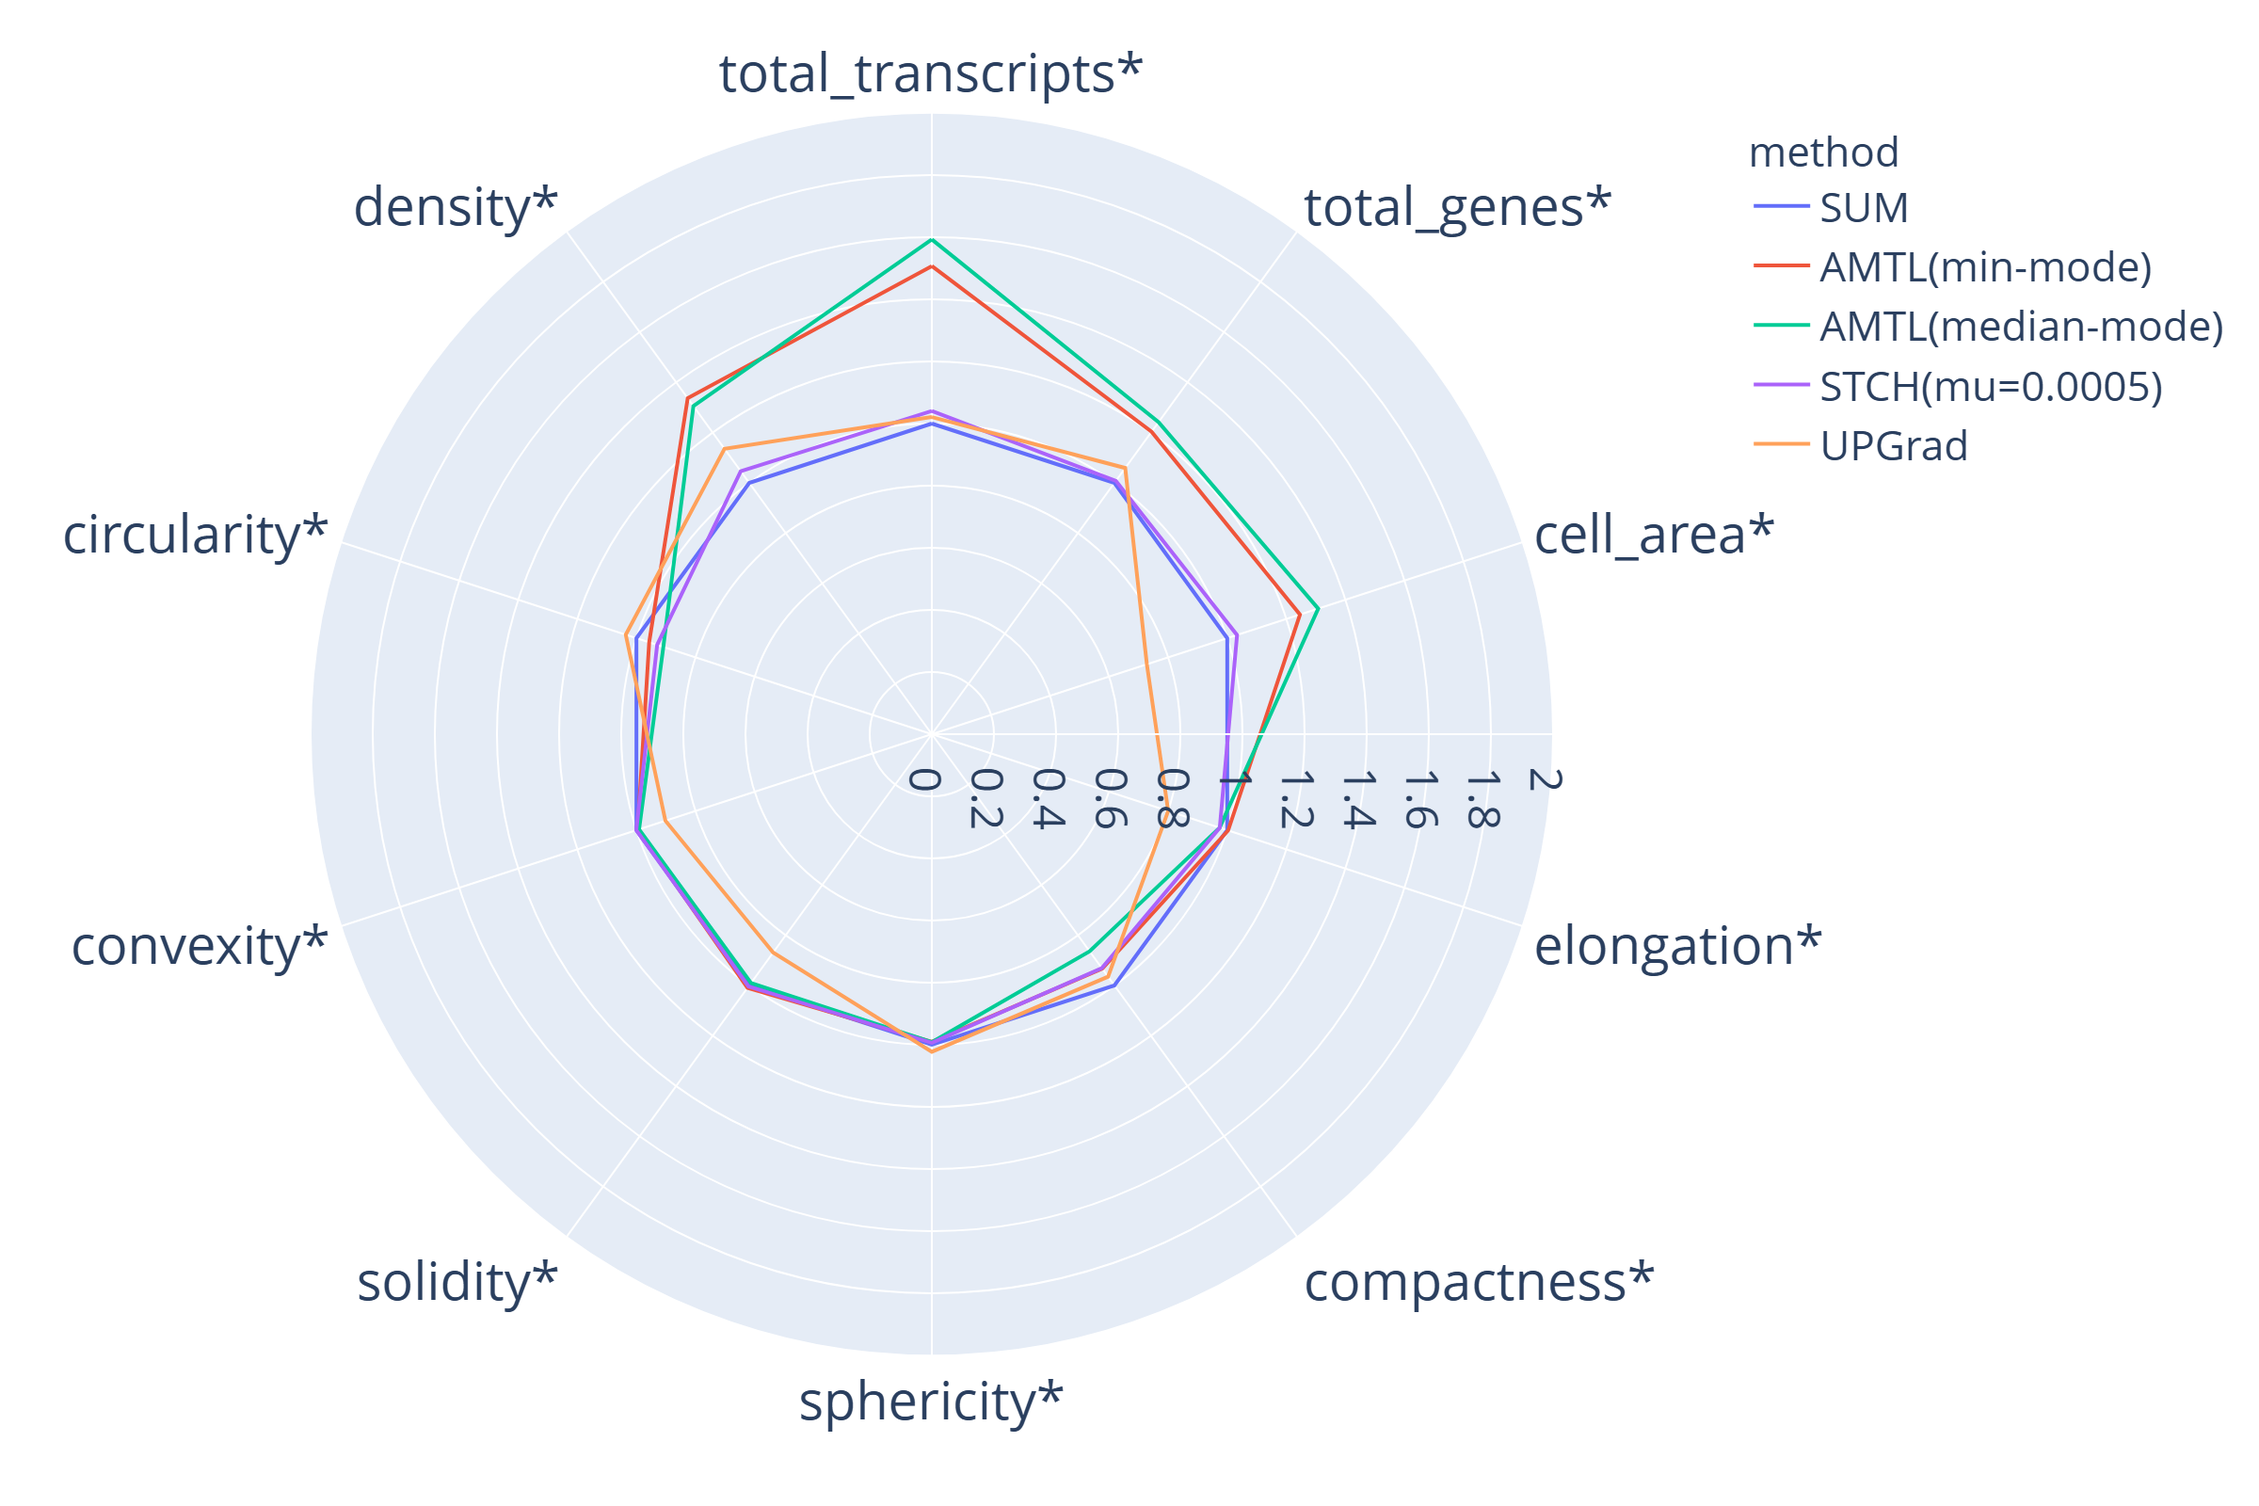
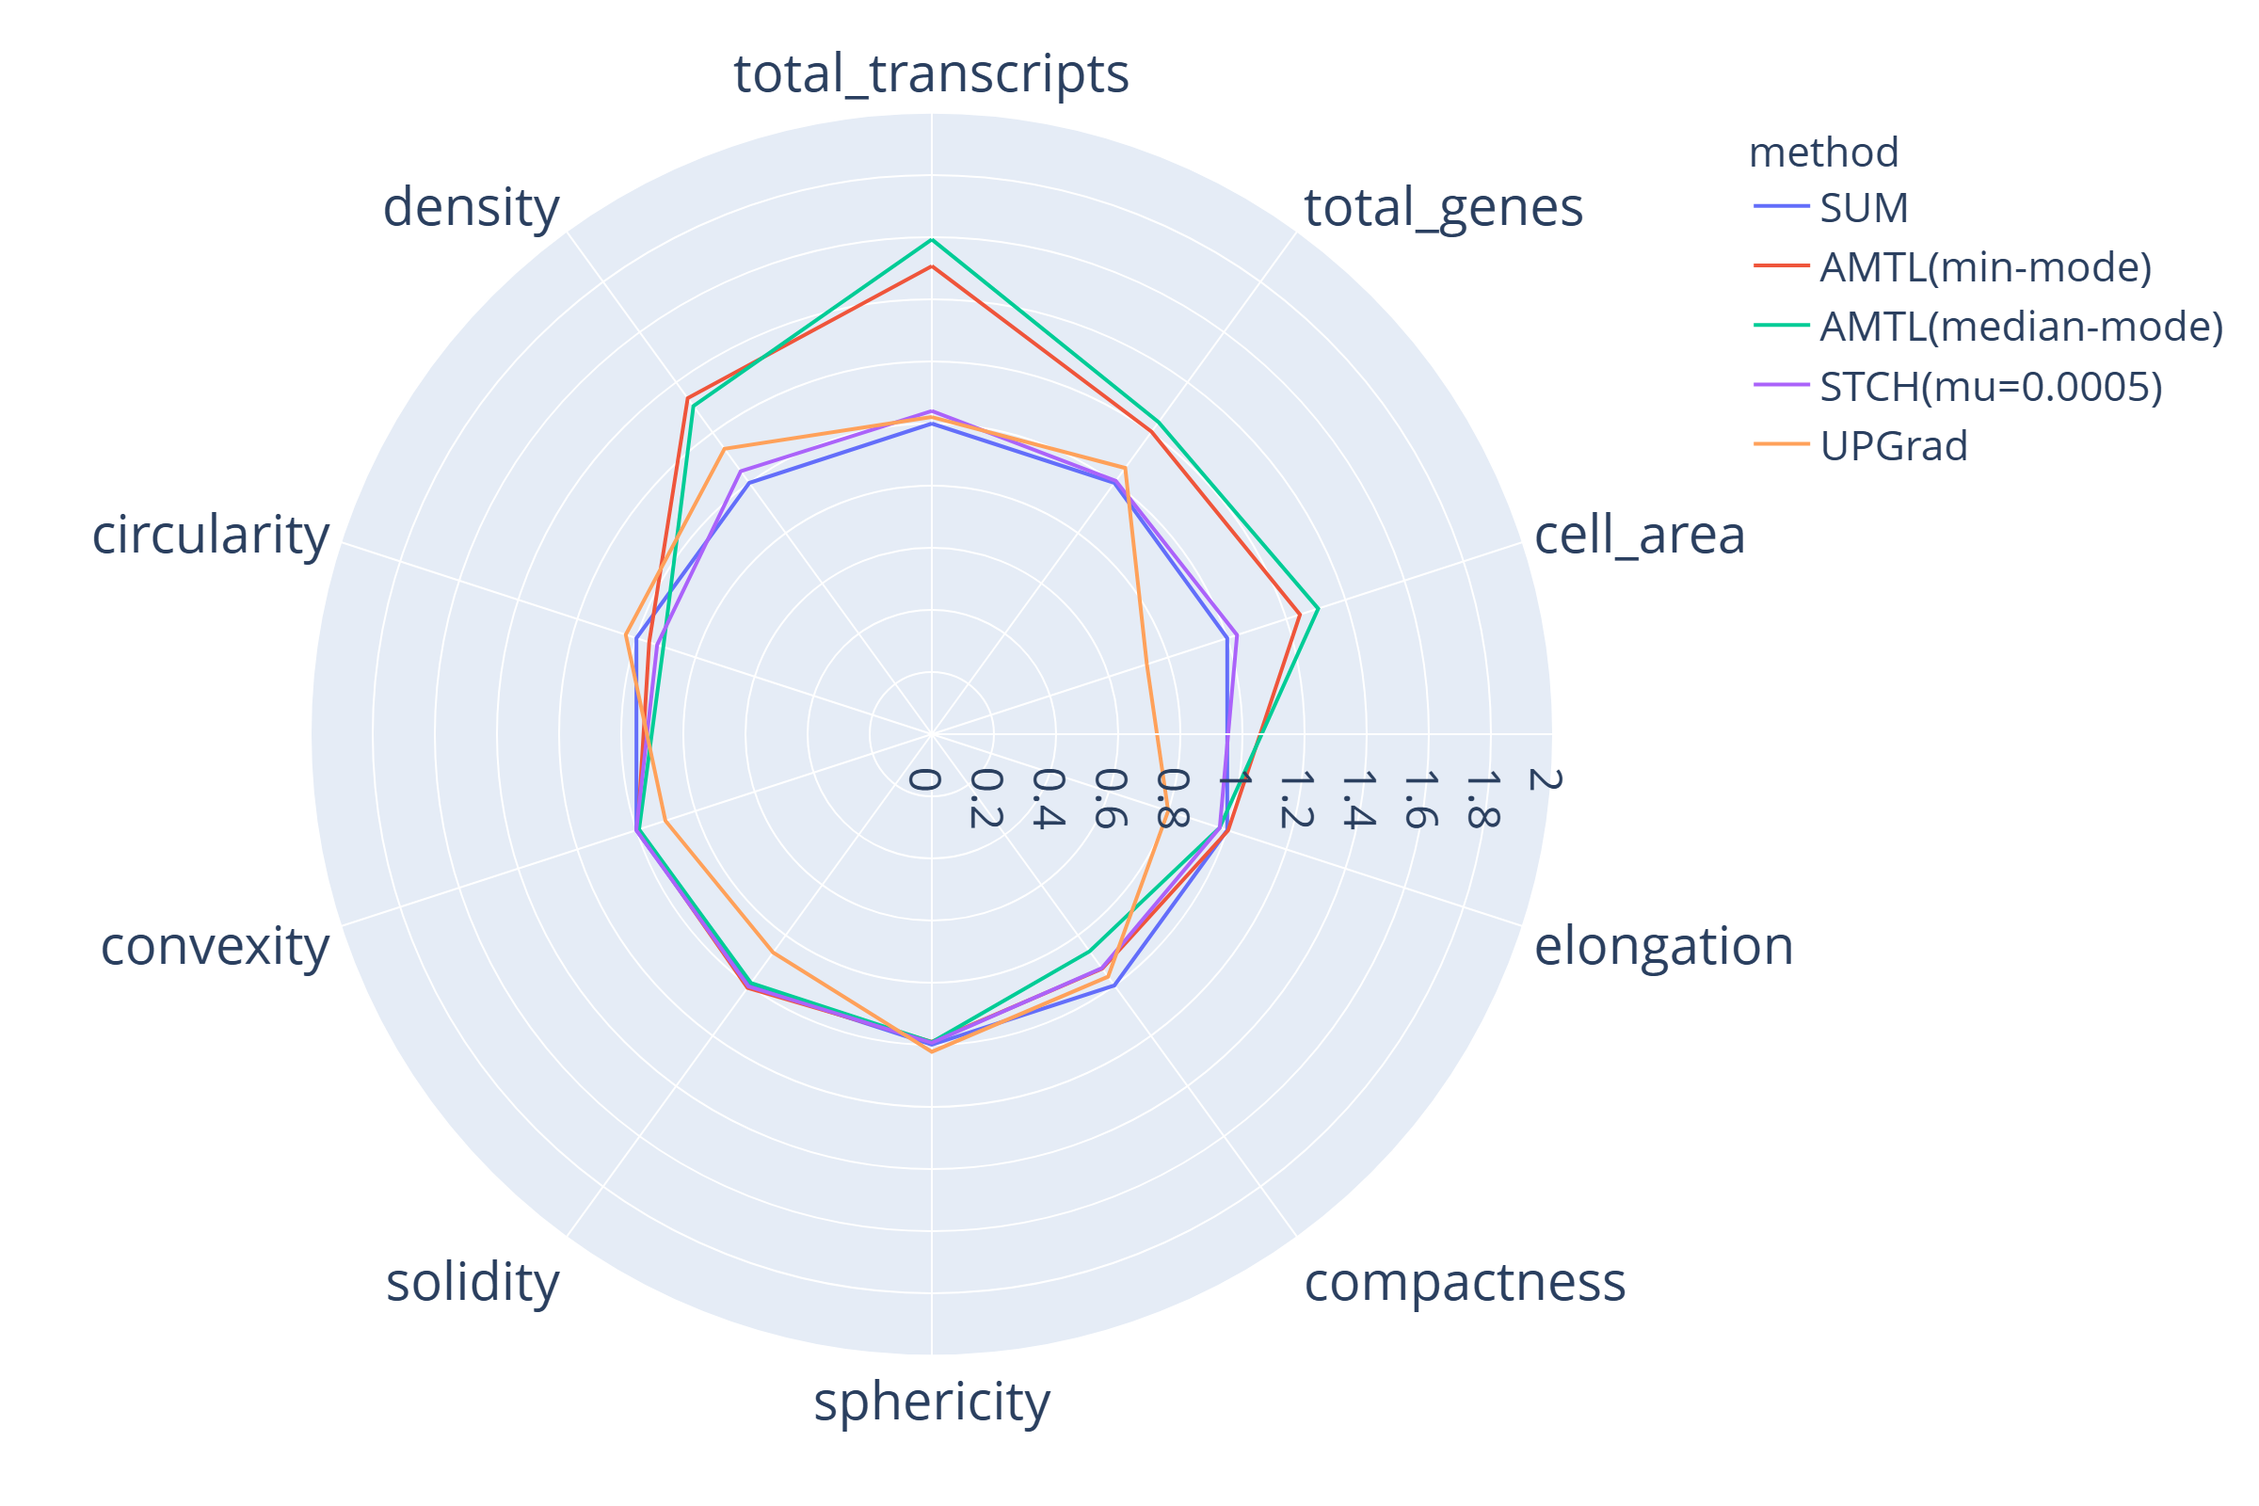
updat

diff --git a/run_lr_experiment_v2.py b/run_lr_experiment_v2.py
@@ -1,0 +1,347 @@
+
+import os
+import sys
+import glob
+import json
+import time
+import shutil
+import numpy as np
+import pandas as pd
+import tifffile
+import cv2
+import traceback
+import torch
+
+# -----------------------------------------------------------------------------
+# SAFETY CONFIGURATION
+# -----------------------------------------------------------------------------
+# 1. Set specific GPU (CUDA 3)
+os.environ["CUDA_VISIBLE_DEVICES"] = "3" 
+
+# 2. Memory Fragmentation Optimization
+os.environ["PYTORCH_CUDA_ALLOC_CONF"] = "expandable_segments:True"
+
+from bidcell.BIDCellModel import BIDCellModel
+from bidcell.config import load_config
+from bidcell.model.utils.utils import get_newest_id
+from bidcell.download_utils import download_data
+
+# -----------------------------------------------------------------------------
+# Helper Functions
+# -----------------------------------------------------------------------------
+def check_memory(required_gb=20.0):
+    """Checks available CUDA memory on the visible device."""
+    if not torch.cuda.is_available():
+        print("WARNING: CUDA is not available. Using CPU.")
+        return True
+
+    # Check logical device 0 (which maps to physical CUDA_VISIBLE_DEVICES index)
+    try:
+        free_bytes, total_bytes = torch.cuda.mem_get_info(0)
+        free_gb = free_bytes / (1024**3)
+        total_gb = total_bytes / (1024**3)
+        print(f" > Memory Check: {free_gb:.2f} GB FREE / {total_gb:.2f} GB TOTAL")
+        
+        if free_gb < required_gb:
+            print(f"ERROR: Not enough memory! Required {required_gb} GB, found {free_gb:.2f} GB.")
+            return False
+        return True
+    except Exception as e:
+        print(f"Warning: Failed to check memory info ({e}). Proceeding...")
+        return True
+
+def load_marker_genes(csv_path):
+    """Loads a set of unique genes from a marker CSV file."""
+    if not os.path.exists(csv_path):
+        print(f"Warning: Marker file not found at {csv_path}")
+        return set()
+    
+    try:
+        # Assuming format: CellType (index), Gene1, Gene2...
+        df = pd.read_csv(csv_path, index_col=0)
+        # Identify genes (columns) that have at least one marker entry (value > 0)
+        # We sum down the columns; if sum > 0, it's a marker for at least one cell type.
+        col_sums = df.sum(axis=0)
+        genes = set(col_sums[col_sums > 0].index)
+        print(f"  Loaded {len(genes)} marker genes from {os.path.basename(csv_path)}")
+        return genes
+    except Exception as e:
+        print(f"  Error loading markers: {e}")
+        return set()
+
+def compute_morphology_metrics(seg_path, pixel_size_um=1.0):
+    seg = tifffile.imread(seg_path)
+    cell_ids = np.unique(seg)
+    cell_ids = cell_ids[cell_ids != 0]
+    
+    metrics = []
+    h, w = seg.shape
+    total_area_um2 = h * w * (pixel_size_um ** 2)
+    density = len(cell_ids) / (total_area_um2 / 10000.0) if total_area_um2 > 0 else 0
+
+    if len(cell_ids) == 0:
+        return metrics, 0, 0.0
+
+    for cid in cell_ids:
+        mask = np.uint8(seg == cid)
+        contours, _ = cv2.findContours(mask, cv2.RETR_EXTERNAL, cv2.CHAIN_APPROX_SIMPLE)
+        if not contours:
+            continue
+            
+        cnt = contours[0]
+        area = cv2.contourArea(cnt)
+        perimeter = cv2.arcLength(cnt, True)
+        
+        if area == 0: continue
+        
+        row = {"cell_id": int(cid), "area": area, "perimeter": perimeter}
+        
+        hull = cv2.convexHull(cnt)
+        hull_area = cv2.contourArea(hull)
+        hull_perimeter = cv2.arcLength(hull, True)
+        
+        if hull_area > 0:
+            solidity = area / hull_area
+        else:
+            solidity = 0
+        row["solidity"] = solidity
+        
+        if perimeter > 0:
+            convexity = hull_perimeter / perimeter
+            circularity = (4 * np.pi * area) / (perimeter ** 2)
+            compactness = (perimeter ** 2) / area
+        else:
+            convexity = 0
+            circularity = 0
+            compactness = 0
+        row["convexity"] = convexity
+        row["circularity"] = circularity
+        row["compactness"] = compactness
+        row["sphericity"] = np.sqrt(circularity)
+
+        if len(cnt) >= 5:
+            try:
+                (x,y), (MA, ma), angle = cv2.fitEllipse(cnt)
+                major = max(MA, ma)
+                minor = min(MA, ma)
+                if major > 0:
+                    elongation = minor / major
+                else:
+                    elongation = 1.0
+            except:
+                elongation = 1.0
+        else:
+            elongation = 1.0
+        row["elongation"] = elongation
+        
+        metrics.append(row)
+        
+    return metrics, len(cell_ids), density
+
+def compute_expression_metrics(cgm_path, pos_genes=None, neg_genes=None):
+    if not os.path.exists(cgm_path):
+        return []
+        
+    df = pd.read_csv(cgm_path, index_col=0)
+    # df: rows=cells, cols=genes
+    
+    counts = df.sum(axis=1) # Total transcripts per cell
+    n_genes = (df > 0).sum(axis=1) # Genes detected per cell
+    
+    # Pre-calculate positive and negative sums if markers provided
+    # Intersect matrix columns with marker sets
+    matrix_genes = set(df.columns)
+    
+    pos_cols = []
+    if pos_genes:
+        pos_cols = list(matrix_genes.intersection(pos_genes))
+    
+    neg_cols = []
+    if neg_genes:
+        neg_cols = list(matrix_genes.intersection(neg_genes))
+        
+    if pos_cols:
+        pos_counts = df[pos_cols].sum(axis=1)
+    else:
+        pos_counts = pd.Series(0, index=df.index)
+        
+    if neg_cols:
+        neg_counts = df[neg_cols].sum(axis=1)
+    else:
+        neg_counts = pd.Series(0, index=df.index)
+
+    metrics = []
+    for idx in df.index:
+        total = int(counts[idx])
+        p_count = int(pos_counts[idx])
+        n_count = int(neg_counts[idx])
+        
+        row = {
+            "cell_id": int(idx) if str(idx).isdigit() else str(idx),
+            "total_transcripts": total,
+            "total_genes": int(n_genes[idx]),
+            "positive_exprsPct": (p_count / total) if total > 0 else 0.0,
+            "negative_exprsPct": (n_count / total) if total > 0 else 0.0
+        }
+        metrics.append(row)
+    return metrics
+
+# -----------------------------------------------------------------------------
+# Main Experiment Loop
+# -----------------------------------------------------------------------------
+def main():
+    print("\n==========================================")
+    print("BIDCell Learning Rate Experiment v2")
+    print("Features: Memory Check, Full Metrics (Pos/Neg ExprsPct), Safe Save")
+    print("==========================================\n")
+    
+    # 1. Setup Directories
+    base_dir = os.path.dirname(os.path.abspath(__file__))
+    ugrad_results_dir = os.path.join(base_dir, "full_data_results", "ugrad_results")
+    if not os.path.exists(ugrad_results_dir):
+        os.makedirs(ugrad_results_dir)
+    
+    results_json_path = os.path.join(ugrad_results_dir, "lr_medians.json")
+    
+    # 2. Check Initial Memory
+    if not check_memory(required_gb=15.0):
+        print("Initial memory check failed. Please ensure GPU 3 is free.")
+        sys.exit(1)
+
+    # 3. Load Config & Markers
+    config_file = "params_paper.yaml"
+    try:
+        config = load_config(config_file)
+        
+        # Load markers
+        # Paths in config are relative to the execution root usually.
+        # We assume script is run from repo root D:\2512-BROCK-CODING\BIDCell
+        pos_marker_path = os.path.abspath(config.files.fp_pos_markers)
+        neg_marker_path = os.path.abspath(config.files.fp_neg_markers)
+        
+        pos_genes = load_marker_genes(pos_marker_path)
+        neg_genes = load_marker_genes(neg_marker_path)
+        
+    except Exception as e:
+        print(f"Error loading config or markers: {e}")
+        traceback.print_exc()
+        return
+
+    # 4. Resume Capability
+    results = {}
+    if os.path.exists(results_json_path):
+        try:
+            with open(results_json_path, 'r') as f:
+                results = json.load(f)
+            print(f"Loaded existing results for: {list(results.keys())}")
+        except:
+            print("Could not load existing results. Starting fresh.")
+            results = {}
+
+    # 5. Define Learning Rates
+    lrs = [1e-5, 1e-6, 1e-7, 1e-8, 1e-9]
+    
+    for lr in lrs:
+        lr_label = f"LR={lr:.0E}".replace("+", "")
+        
+        if lr_label in results:
+            print(f"Skipping {lr_label} - already completed.")
+            continue
+            
+        print(f"\n>>> Starting Run for {lr_label}")
+        
+        # Memory Check before run
+        if not check_memory(required_gb=12.0):
+            print("  Memory low. Waiting 30s to drain...")
+            time.sleep(30)
+            if not check_memory(required_gb=10.0):
+                print("  Critical memory shortage. Aborting experiment loop.")
+                break
+        
+        try:
+            # Re-init model
+            model = BIDCellModel(config_file)
+            model.config.training_params.learning_rate = lr
+            model.config.training_params.total_epochs = 5
+            model.config.training_params.sample_freq = 1
+            
+            # Identify output strategy
+            data_dir = model.config.files.data_dir
+            model_outputs_dir = os.path.join(data_dir, "model_outputs")
+            if not os.path.exists(model_outputs_dir): os.makedirs(model_outputs_dir)
+            existing_dirs = set(os.listdir(model_outputs_dir))
+            
+            # --- RUN PIPELINE ---
+            print("  Running pipeline...")
+            model.run_pipeline()
+            # --------------------
+            
+            # Identify new output
+            current_dirs = set(os.listdir(model_outputs_dir))
+            new_dirs = current_dirs - existing_dirs
+            if new_dirs:
+                timestamp = list(new_dirs)[0]
+                out_dir = os.path.join(model_outputs_dir, timestamp)
+            else:
+                timestamp = get_newest_id(model_outputs_dir)
+                out_dir = os.path.join(model_outputs_dir, timestamp)
+            print(f"  Output generated at: {out_dir}")
+
+            # --- PROCESS METRICS ---
+            current_metrics = {}
+            
+            # Morphology
+            test_out_dir = os.path.join(out_dir, "test_output")
+            connected_files = glob.glob(os.path.join(test_out_dir, "*_connected.tif"))
+            
+            density_val = 0.0
+            if connected_files:
+                seg_path = connected_files[0]
+                pix_um = model.config.affine.target_pix_um or 1.0
+                m_rows, _, den = compute_morphology_metrics(seg_path, pix_um)
+                
+                if m_rows:
+                    df_morph = pd.DataFrame(m_rows)
+                    for c in ["area", "elongation", "compactness", "sphericity", "solidity", "convexity", "circularity"]:
+                        current_metrics[c] = float(df_morph[c].median())
+                density_val = den
+            current_metrics["density"] = float(density_val)
+            
+            # Expression (With Pos/Neg Pct)
+            # Find CGM
+            cgm_files = glob.glob(os.path.join(model.config.files.data_dir, "cell_gene_matrices", timestamp, "*.csv"))
+            if not cgm_files:
+                cgm_files = glob.glob(os.path.join(out_dir, "**/*.csv"), recursive=True)
+                
+            if cgm_files:
+                e_rows = compute_expression_metrics(cgm_files[0], pos_genes=pos_genes, neg_genes=neg_genes)
+                if e_rows:
+                    df_expr = pd.DataFrame(e_rows)
+                    current_metrics["total_transcripts"] = float(df_expr["total_transcripts"].median())
+                    current_metrics["total_genes"] = float(df_expr["total_genes"].median())
+                    current_metrics["positive exprsPct"] = float(df_expr["positive_exprsPct"].median())
+                    current_metrics["negative exprsPct"] = float(df_expr["negative_exprsPct"].median())
+            else:
+                print("  Warning: No expression matrix found.")
+
+            # --- SAVE RESULTS ---
+            results[lr_label] = current_metrics
+            with open(results_json_path, 'w') as f:
+                json.dump(results, f, indent=4)
+            print(f"  [success] Metrics saved for {lr_label}")
+            print(f"  Metrics captured: {list(current_metrics.keys())}")
+            
+            # Cleanup
+            del model
+            torch.cuda.empty_cache()
+            time.sleep(2)
+            
+        except Exception as e:
+            print(f"  [error] Experiment failed for {lr_label}: {e}")
+            traceback.print_exc()
+            torch.cuda.empty_cache()
+    
+    print("\nExperiment Sequence Completed.")
+
+if __name__ == "__main__":
+    main()

diff --git a/graph_generation/upgrad/generate_normalized_comparison_radar_lr.py b/graph_generation/upgrad/generate_normalized_comparison_radar_lr.py
@@ -73,18 +73,18 @@ def generate_normalized_comparison_radar_lr():
         "Density"
     ]
     
-    # Create labels with * to indicate normalization
+    # Create labels with no * to indicate normalization
     plot_labels = [
-        "total_transcripts*",
-        "total_genes*",
-        "cell_area*",
-        "elongation*",
-        "compactness*",
-        "sphericity*",
-        "solidity*",
-        "convexity*",
-        "circularity*",
-        "density*"
+        "total_transcripts",
+        "total_genes",
+        "cell_area",
+        "elongation",
+        "compactness",
+        "sphericity",
+        "solidity",
+        "convexity",
+        "circularity",
+        "density"
     ]
     
     # --- Process Base Methods Data First ---
